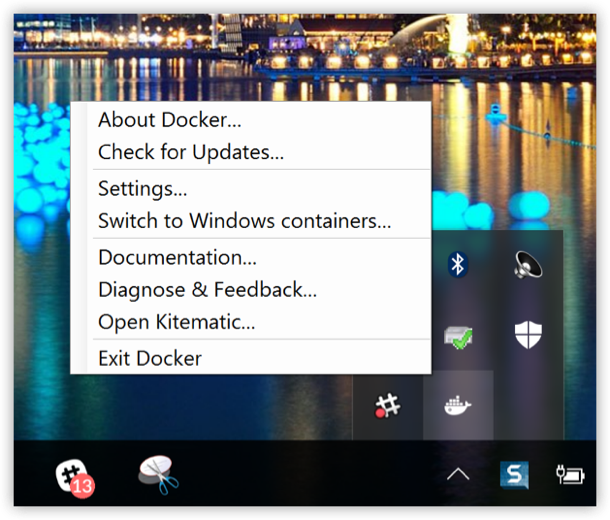
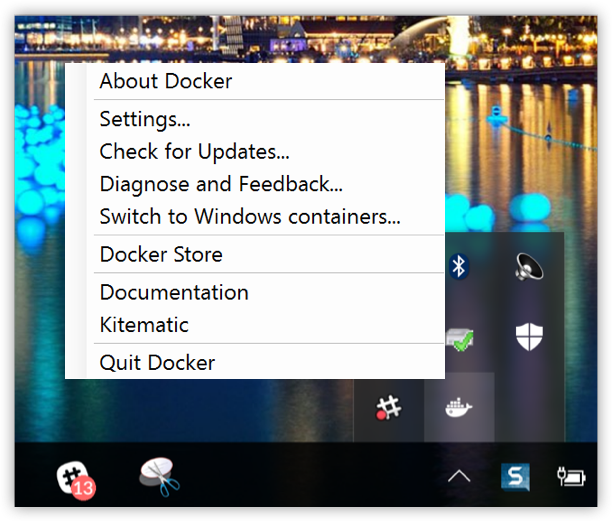
updates for d4mac, d4win CE v.17.03.0
more updates on d4mac, d4win home pages

diff --git a/docker-for-windows/index.md b/docker-for-windows/index.md
@@ -262,7 +262,7 @@ PowerShell Module as follows.
     if (-Not (Test-Path $PROFILE)) {
         New-Item $PROFILE –Type File –Force
     }
-    
+
     Add-Content $PROFILE "`nImport-Module posh-docker"
     ```
 
@@ -326,12 +326,9 @@ perform a factory reset.
   diagnostics, crash reports, and usage data. This information can help Docker
   improve the application and get more context for troubleshooting problems.
 
-  Uncheck any of the options to opt out and prevent auto-send of data. Docker
-  may prompt for more information in some cases, even with auto-send enabled.
-  Also, you can enable or disable these auto-reporting settings with one click
-  on the information popup when you first start Docker.
-
-  ![Startup information](/docker-for-windows/images/win-install-success-popup.png)
+  Uncheck any of the options to opt out and prevent auto-send of
+  data. Docker may prompt for more information in some cases,
+  even with auto-send enabled.
 
 ### Shared Drives
 
@@ -530,9 +527,11 @@ Linux VM.
 
 ### Switch between Windows and Linux containers
 
-Starting with Beta 26 and Stable 1.13.0, you can select which daemon (Linux or Windows) the Docker
+You can select which daemon (Linux or Windows) the Docker
 CLI talks to. Select **Switch to Windows containers** to toggle to Windows
 containers. Select **Switch to Linux containers**.
+
+![Windows-Linux container types switch](images/config-popup-win-linux-switch.png)
 
 Microsoft Developer Network has preliminary/draft information on Windows
 containers
@@ -605,11 +604,20 @@ forum](https://forums.docker.com/c/docker-for-windows).
 To report bugs or problems, log on to [Docker for Windows issues on
 GitHub](https://github.com/docker/for-win/issues), where you can review
 community reported issues, and file new ones. As a part of reporting issues on
-GitHub, we can help you troubleshoot the log data. See the [Diagnose and
-Feedback](#diagnose-and-feedback) topic below.
+GitHub, we can help you troubleshoot the log data. See the
+[Diagnose and Feedback](#diagnose-and-feedback) topic below.
 
 To give feedback on the documentation or update it yourself, use the Feedback
 options at the bottom of each docs page.
+
+### Docker Store
+
+Choose **Docker Store** from the Docker for Windows menu
+to get to the Docker app downloads site.
+[Docker store](https://store.docker.com/) is a
+component of the next-generation Docker Hub, and the best place
+to find compliant, trusted commercial and free software
+distributed as Docker Images.
 
 ### Diagnose and Feedback
 

diff --git a/docker-for-mac/index.md b/docker-for-mac/index.md
@@ -118,12 +118,7 @@ can set the following runtime options.
   diagnostics, crash reports, and usage data. This information can help Docker
   improve the application and get more context for troubleshooting problems.
   Uncheck this to opt out and prevent auto-send of data. Docker may prompt for
-  more information in some cases, even with auto-send enabled. Also, you can
-  enable or disable these auto-reporting settings with one click on the
-  information popup when you first start Docker.
-
-  ![Startup information](/docker-for-mac/images/mac-install-success-docker-wait.png)
-
+  more information in some cases, even with auto-send enabled.
 
 ### File sharing
 
@@ -332,13 +327,23 @@ forum](https://forums.docker.com/c/docker-for-mac).
 
 To report bugs or problems, log on to [Docker for Mac issues on
 GitHub](https://github.com/docker/for-mac/issues), where you can review
-community reported issues, and file new ones. See
-[Diagnose problems, send feedback, and create GitHub issues](troubleshoot.md#diagnose-problems-send-feedback-and-create-github-issues).
+community reported issues, and file new ones. See [Diagnose problems, send
+feedback, and create GitHub
+issues](troubleshoot.md#diagnose-problems-send-feedback-and-create-github-issues).
 As a part of reporting issues on GitHub, we can help you troubleshoot the log
 data.
 
 To give us feedback on the documentation or update it yourself, use the Feedback
 options at the bottom of each docs page.
+
+## Docker Store
+
+Choose **Docker Store** from the Docker for Mac menu
+to get to the Docker app downloads site.
+[Docker store](https://store.docker.com/) is a
+component of the next-generation Docker Hub, and the best place
+to find compliant, trusted commercial and free software
+distributed as Docker Images.
 
 ## Where to go next
 

diff --git a/docker-for-windows/release-notes.md b/docker-for-windows/release-notes.md
@@ -9,7 +9,7 @@ title: Docker for Windows Release notes
 Here are the main improvements and issues per release, starting with the current
 release. The documentation is always updated for each release.
 
-For system requirements, please see 
+For system requirements, please see
 [What to know before you install](install.md#what-to-know-before-you-install).
 
 Release notes for _stable_ and _beta_ releases are listed below. You can learn
@@ -268,6 +268,27 @@ We did not distribute a 1.12.4 stable release
 * Docker Compose 1.8.0
 
 ## Beta Release Notes
+
+### Docker Community Edition 17.03.0 Release Notes (2017-02-22 17.03.0-ce-rc1)
+
+**New**
+
+- Introduce Docker Community Edition
+- Integration with Docker Cloud: control remote Swarms from the local CLI and view your repositories. This feature will be rolled out to all users progressively.
+
+**Upgrades**
+
+- Docker 17.03.0-ce-rc1
+- Linux Kernel 4.9.11
+
+**Upgrades**
+
+- VPNKit: Fixed unmarshalling of DNS packets containing pointers to pointers to labels
+- Match Hyper-V Integration Services by ID, not name
+- Don't consume 100% CPU when the service is stopped
+- Log the diagnostic ID when uploading
+- Improved Firewall handling: stop listing the rules since it can take a lot of time
+- Don't rollback to the previous engine when the desired engine fails to start
 
 ### Beta 41 Release Notes (2017-02-07 1.13.1-rc2-beta41)
 

diff --git a/docker-for-mac/release-notes.md b/docker-for-mac/release-notes.md
@@ -281,6 +281,26 @@ events or unexpected unmounts.
 
 ## Beta Release Notes
 
+### Docker Community Edition 17.03.0 Release Notes (2017-02-22 17.03.0-ce-rc1-mac1)
+
+**New**
+
+- Introduce Docker Community Edition
+- Integration with Docker Cloud to control remote Swarms from the local CLI and view your repositories. This feature will be rolled out to all users progressively
+- Docker will now use keychain access to secure your IDs
+
+**Upgrades**
+
+- Docker 17.03.0-ce-rc1
+- Linux Kernel 4.9.11
+
+**Bug fixes and minor changes**
+
+- VPNKit: fixed unmarshalling of DNS packets containing pointers to pointers to labels
+- osxfs: catch EPERM when reading extended attributes of non-files
+- Added `page_poison=1` to boot args
+- Added a new disk flushing option
+
 ### Beta 41 Release Notes (2017-02-07-2017-1.13.1-rc2-beta41)
 
 **Upgrades**

diff --git a/docker-for-mac/install.md b/docker-for-mac/install.md
@@ -138,10 +138,10 @@ channels, see the [FAQs](/docker-for-mac/faqs.md#stable-and-beta-channels).
 	  ![Whale in menu bar](/docker-for-mac/images/whale-in-menu-bar.png)
 
 	  If you just installed the app, you also get a success message with suggested
-    next steps and a link to this documentation. Click the whale ![whale](/docker-for-mac/images/whale-x.png))
+    next steps and a link to this documentation. Click the whale (![whale](/docker-for-mac/images/whale-x.png))
     in the status bar to dismiss this popup.
 
-	  ![Docker success](images/mac-install-success-docker-ps.png)
+	  ![Startup information](/docker-for-mac/images/mac-install-success-docker-cloud.png)
 
 3.  Click the whale (![whale-x](images/whale-x.png)) to get Preferences and
     other options.

diff --git a/docker-for-windows/install.md b/docker-for-windows/install.md
@@ -142,7 +142,7 @@ The whale in the status bar indicates that Docker is running, and accessible fro
 
 If you just installed the app, you also get a popup success message with suggested next steps, and a link to this documentation.
 
-![Install success](/docker-for-windows/images/win-install-success-popup.png)
+![Startup information](/docker-for-windows/images/win-install-success-popup-cloud.png)
 
 When initialization is complete, select **About Docker** from the notification area icon to verify that you have the latest version.
 
